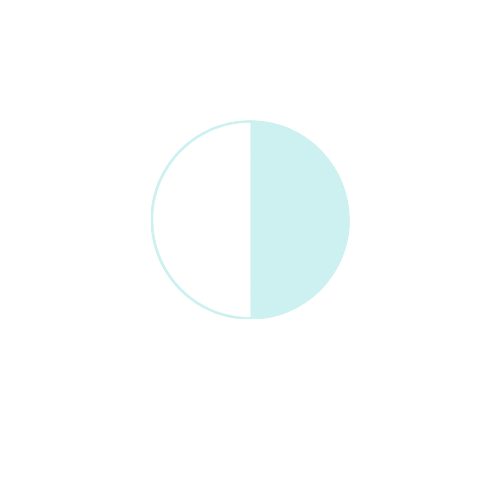
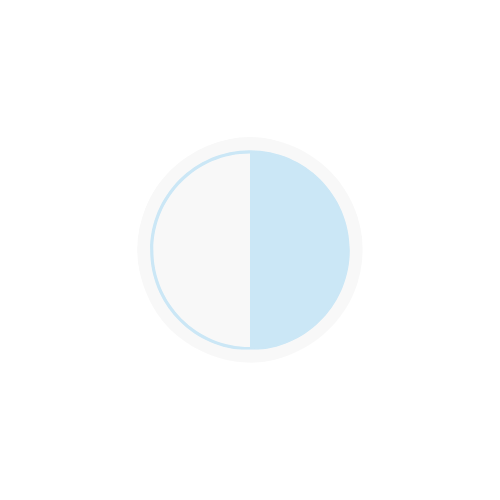
landing style

diff --git a/components/auth/landing.jsx b/components/auth/landing.jsx
@@ -36,11 +36,11 @@ const styles = StyleSheet.create({
     flex: 1,
     justifyContent: "center",
     alignItems: "center",
-    backgroundColor: "#fceeff",
+    backgroundColor: "#ffd7d7",
   },
   header: {
     flex: 0.5,
-    backgroundColor: "#fceeff",
+    backgroundColor: "#ffd7d7",
     alignItems: "center",
     justifyContent: "center",
   },
@@ -76,7 +76,7 @@ const styles = StyleSheet.create({
   button: {
     width: 250,
     height: 50,
-    backgroundColor: "#3cd579",
+    backgroundColor: "#ffd7d7",
     marginBottom: 10,
     alignItems: "center",
     justifyContent: "center",
@@ -98,8 +98,8 @@ const styles = StyleSheet.create({
     color: "orange",
   },
   icon: {
-    marginTop: "20%",
-    width: 450,
-    height: 450,
+    marginTop: "6%",
+    width: 350,
+    height: 350,
   },
 });
